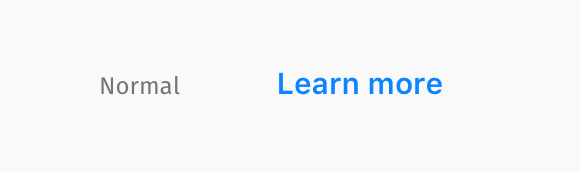
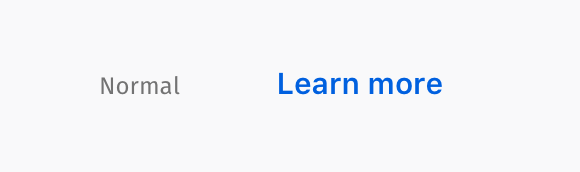
[Refine] blue 60 for normal link

Changed region(s): [[0.4655, 0.436, 0.7759, 0.5523]]

diff --git a/contents/components/link.html b/contents/components/link.html
@@ -17,7 +17,7 @@
       <img class="w-100" src="../images/link/link-normal.png" alt="">
     </div>
     <div class="fl-ns w-60-ns ph2">
-      <p>Font weight: Semibold<br/>Color: Blue 50 <code>#0a84ff</code></p>
+      <p>Font weight: Semibold<br/>Color: Blue 60 <code>#0060df</code></p>
     </div>
   </div>
 
